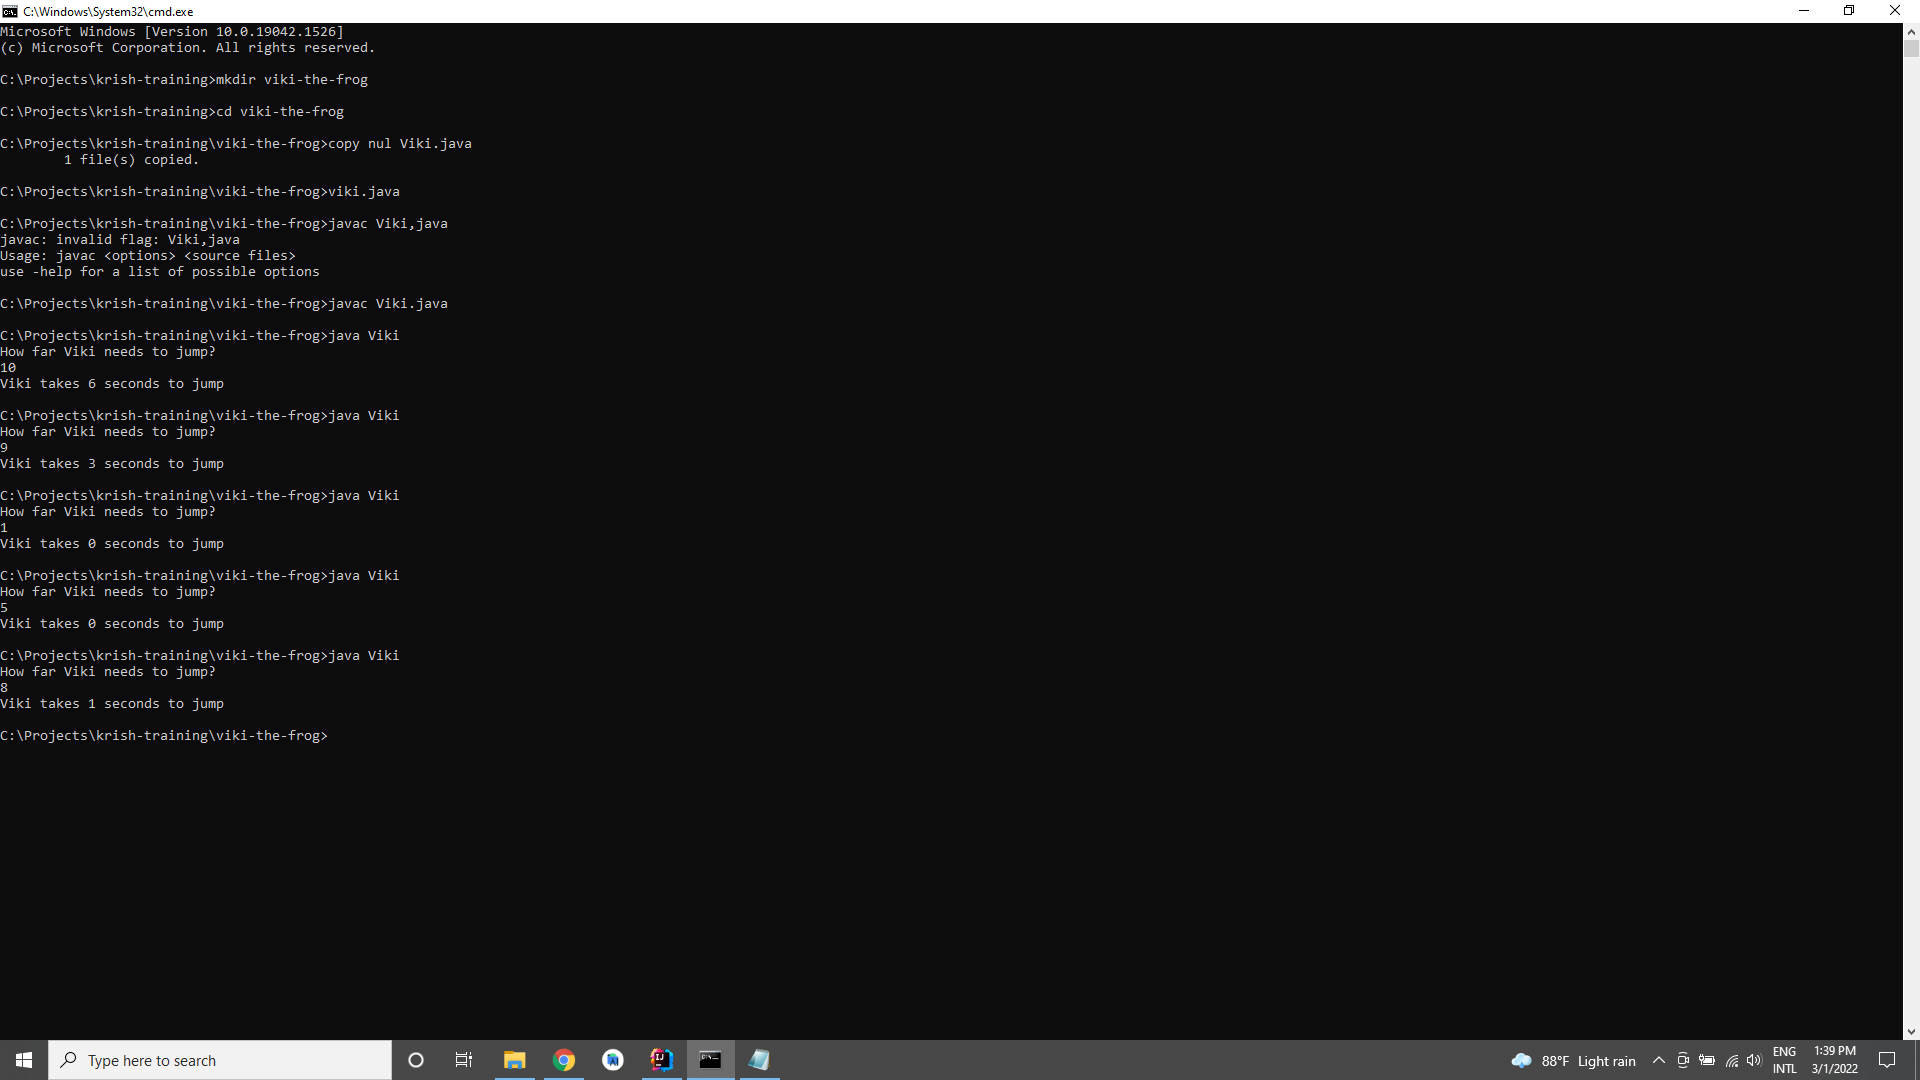
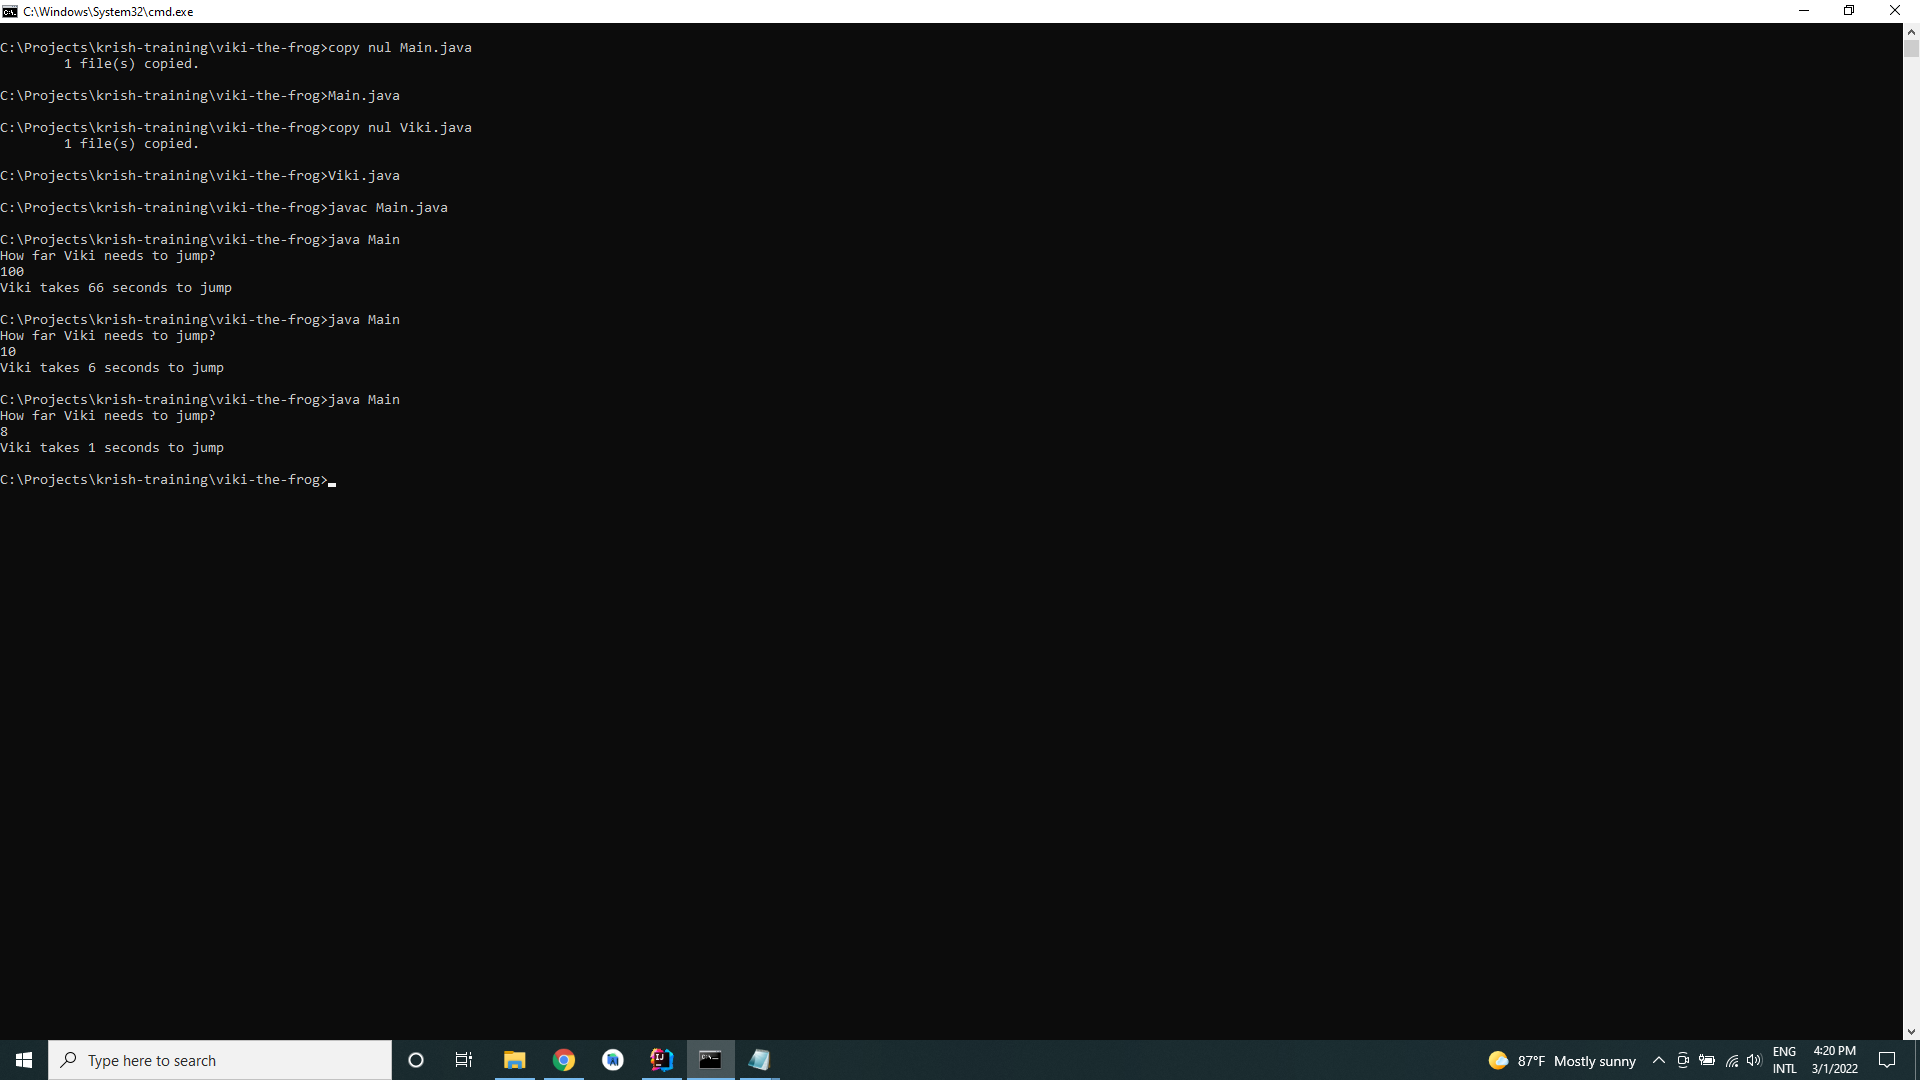
viki the frog

Changed region(s): [[0.0, 0.0306, 0.25, 0.7028], [0.1875, 0.9472, 1.0, 1.0], [0.0, 0.9472, 0.0312, 1.0]]

diff --git a/viki-the-frog/Viki.java b/viki-the-frog/Viki.java
@@ -1,23 +1,25 @@
-import java.util.*;
+public class Viki{
+	private int distance;
 
-class Viki{
+	public void setDistance(int  distance){
+		this.distance = distance;
+	}
 
-	public static void main(String[] args){
-		System.out.println("How far Viki needs to jump?");
-		Scanner scanner = new Scanner(System.in);
-		int distance = scanner.nextInt();
-		int seconds = 0; 
+	public int calculateTime(){
+		int seconds = 0;
 		while(distance > 0){
 			if(distance >= 5){
 				distance -= 5;
 				if(distance != 0){
 					seconds += 1;
-					distance -= 3;
-					if(distance != 0){
-						seconds += 2;
-						distance -= 1;
-						if(distance!=0){
-							seconds += 3;
+					if(distance >=3){
+						distance -= 3;
+						if(distance != 0){
+							seconds += 2;
+							distance -= 1;
+								if(distance!=0){
+									seconds += 3;
+								}
 						}
 					}
 				}
@@ -25,6 +27,7 @@ class Viki{
 				distance = 0;
 			}
 		}
-		System.out.println("Viki takes "+seconds+" seconds to jump");
+		return seconds;
 	}
+
 }

diff --git a/viki-the-frog/Main.java b/viki-the-frog/Main.java
@@ -1,0 +1,13 @@
+import java.util.*;
+
+class Main{
+
+	public static void main(String[] args){
+		System.out.println("How far Viki needs to jump?");
+		Scanner scanner = new Scanner(System.in);
+		int distance = scanner.nextInt();
+		Viki viki = new Viki();
+		viki.setDistance(distance);
+		System.out.println("Viki takes "+viki.calculateTime()+" seconds to jump");
+	}
+}
